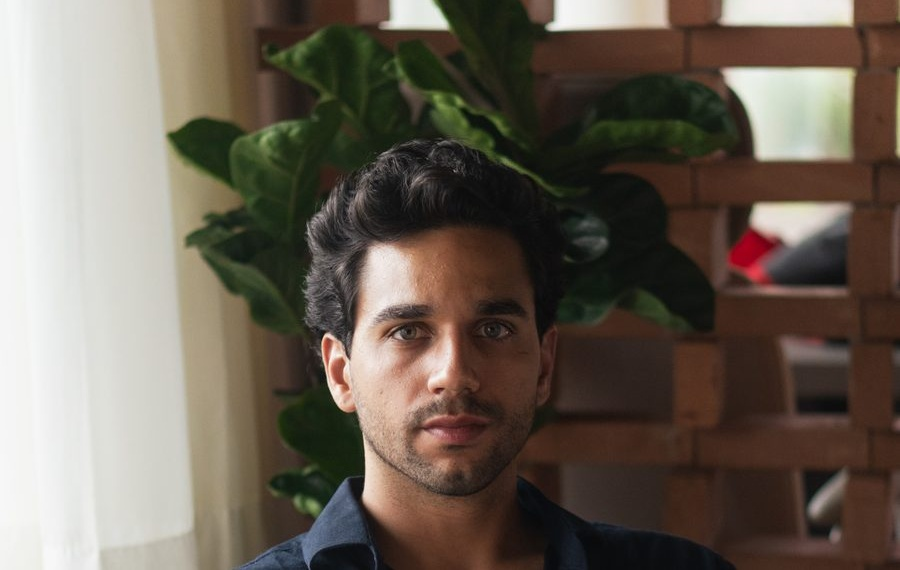
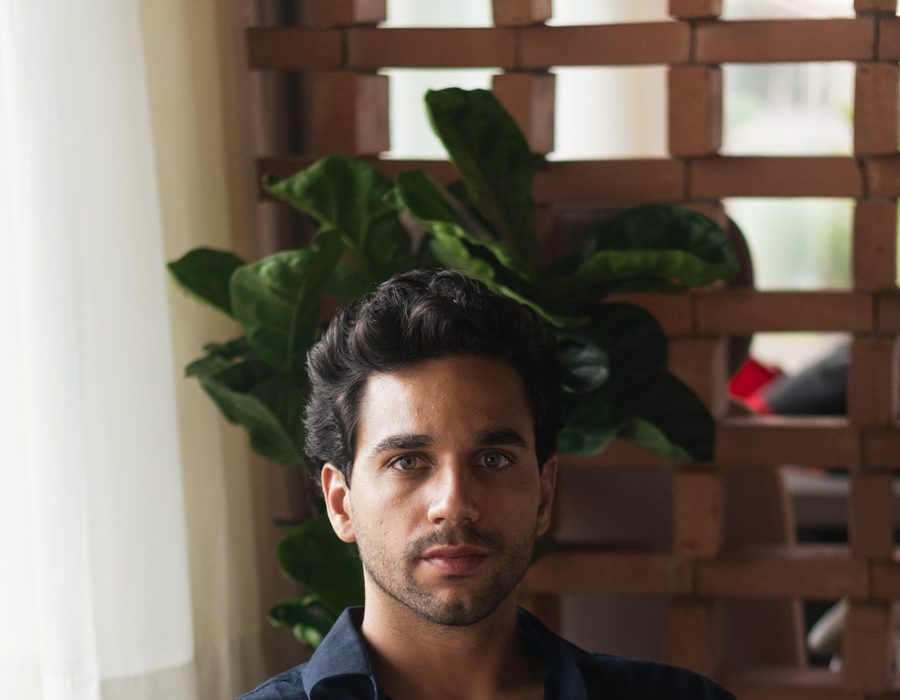
fix: remove sombra hero foto + fotos do César sem crop/zoom
- Remove .hero-foto::after (gradiente que criava sombra sobre a foto)
- .hero-foto img: height: auto em vez de 100% (sem crop)
- .hero-foto desktop: align-self flex-start em vez de stretch
- .autoridade-foto: remove height:380px e overflow:hidden (foto completa)
- .autoridade-foto img: height: auto, remove object-fit:cover
- Mobile: autoridade-foto width:100% max-width:340px, sem altura fixa
- Restaura autoridade-cesar.jpg original (sem crop sharp)

diff --git a/css/styles.css b/css/styles.css
@@ -259,28 +259,17 @@ p:last-child { margin-bottom: 0; }
   .hero-foto {
     width: 42%;
     max-width: 440px;
-    align-self: stretch;
-    overflow: hidden;
+    align-self: flex-start;
   }
 }
 .hero-foto img {
   width: 100%;
-  height: 100%;
-  object-fit: cover;
-  object-position: top center;
+  height: auto;
+  display: block;
   border-radius: 0;
   box-shadow: none;
-  display: block;
 }
-.hero-foto::after {
-  content: '';
-  position: absolute;
-  inset: 0;
-  background:
-    linear-gradient(to bottom, transparent 50%, #0d1710 100%),
-    linear-gradient(to right, #0d1710 0%, transparent 35%);
-  pointer-events: none;
-}
+/* hero-foto::after removido — gradiente cobria a foto do César */
 
 /* ── VSL — YOUTUBE LITE ───────────────────────────────────── */
 #vsl {
@@ -536,18 +525,15 @@ p:last-child { margin-bottom: 0; }
 .autoridade-foto {
   flex-shrink: 0;
   width: 300px;
-  height: 380px;
-  overflow: hidden;
+  position: relative;
   border-radius: 16px;
   box-shadow: 0 20px 60px rgba(0,0,0,.22), 0 0 0 1px rgba(201,168,76,.15);
 }
 .autoridade-foto img {
   width: 100%;
-  height: 100%;
-  object-fit: cover;
-  object-position: center 10%;
-  border-radius: 16px;
+  height: auto;
   display: block;
+  border-radius: 16px;
 }
 .autoridade-foto-placeholder {
   width: 260px;
@@ -1302,7 +1288,7 @@ footer a:hover { color: var(--dourado); }
   .hero-cta-sub { font-size: .75rem; margin-top: 10px; }
   .microprovas { margin-top: 24px; gap: 14px; }
   .hero-foto { max-width: 100%; margin-top: 36px; }
-  .hero-foto img { max-height: 400px; object-fit: cover; object-position: top; }
+  .hero-foto img { width: 100%; height: auto; max-height: none; }
 
   /* Seções — espaçamento generoso */
   #dor        { padding: 88px 0; }
@@ -1339,8 +1325,8 @@ footer a:hover { color: var(--dourado); }
   /* DOR — intro mais espaçado */
   #dor .intro { margin-bottom: 32px; }
 
-  /* Autoridade foto — centralizada no mobile, proporção 3:4 */
-  .autoridade-foto { width: 240px; height: 300px; margin: 0 auto; }
+  /* Autoridade foto — centralizada no mobile, sem crop */
+  .autoridade-foto { width: 100%; max-width: 340px; margin: 0 auto; }
 
   /* VSL */
   #vsl { padding-bottom: 64px; }
